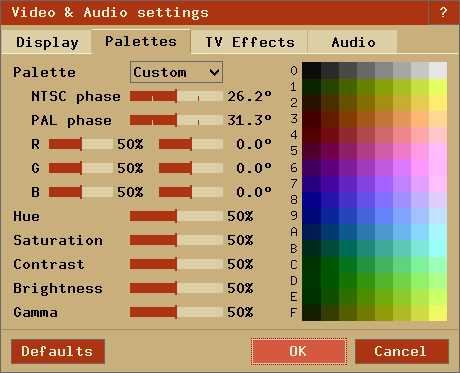
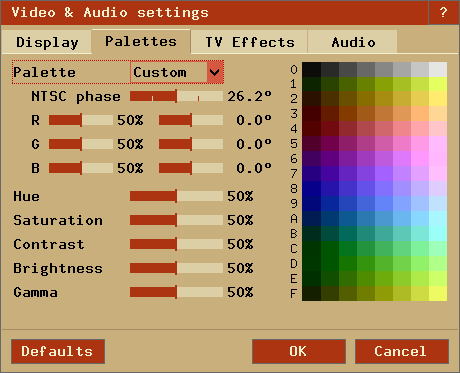
reworked Palette settings a bit

diff --git a/docs/index.html b/docs/index.html
@@ -3654,8 +3654,7 @@
         <table border="1" cellpadding="4">
           <tr><th>Item</th><th>Brief description</th><th>For more information,<br>see <a href="#CommandLine">Command Line</a></th></tr>
           <tr><td>Palette</td><td>Palette used for emulation mode</td><td>-palette</td></tr>
-          <tr><td>NTSC phase</td><td>Adjust phase shift of 'Custom' NTSC palette</td><td>-pal.phase_ntsc</td></tr>
-          <tr><td>PAL phase</td><td>Adjust phase shift of 'Custom' PAL palette</td><td>-pal.phase_pal</td></tr>
+          <tr><td>NTSC/PAL phase</td><td>Adjust phase shift of 'Custom' NTSC or PAL (depends on game) palette.  </td><td>-pal.phase_ntsc, -pal.phase_pal</td></tr>
           <tr><td>R</td><td>Adjust red scale and shift of 'Custom' palette</td><td>-pal.red_scale, -pal.red_shift</td></tr>
           <tr><td>G</td><td>Adjust green scale and shift of 'Custom' palette</td><td>-pal.green_scale, -pal.green_shift</td></tr>
           <tr><td>B</td><td>Adjust blue scale and shift of 'Custom' palette</td><td>-pal.blue_scale, -pal.blue_shift</td></tr>
